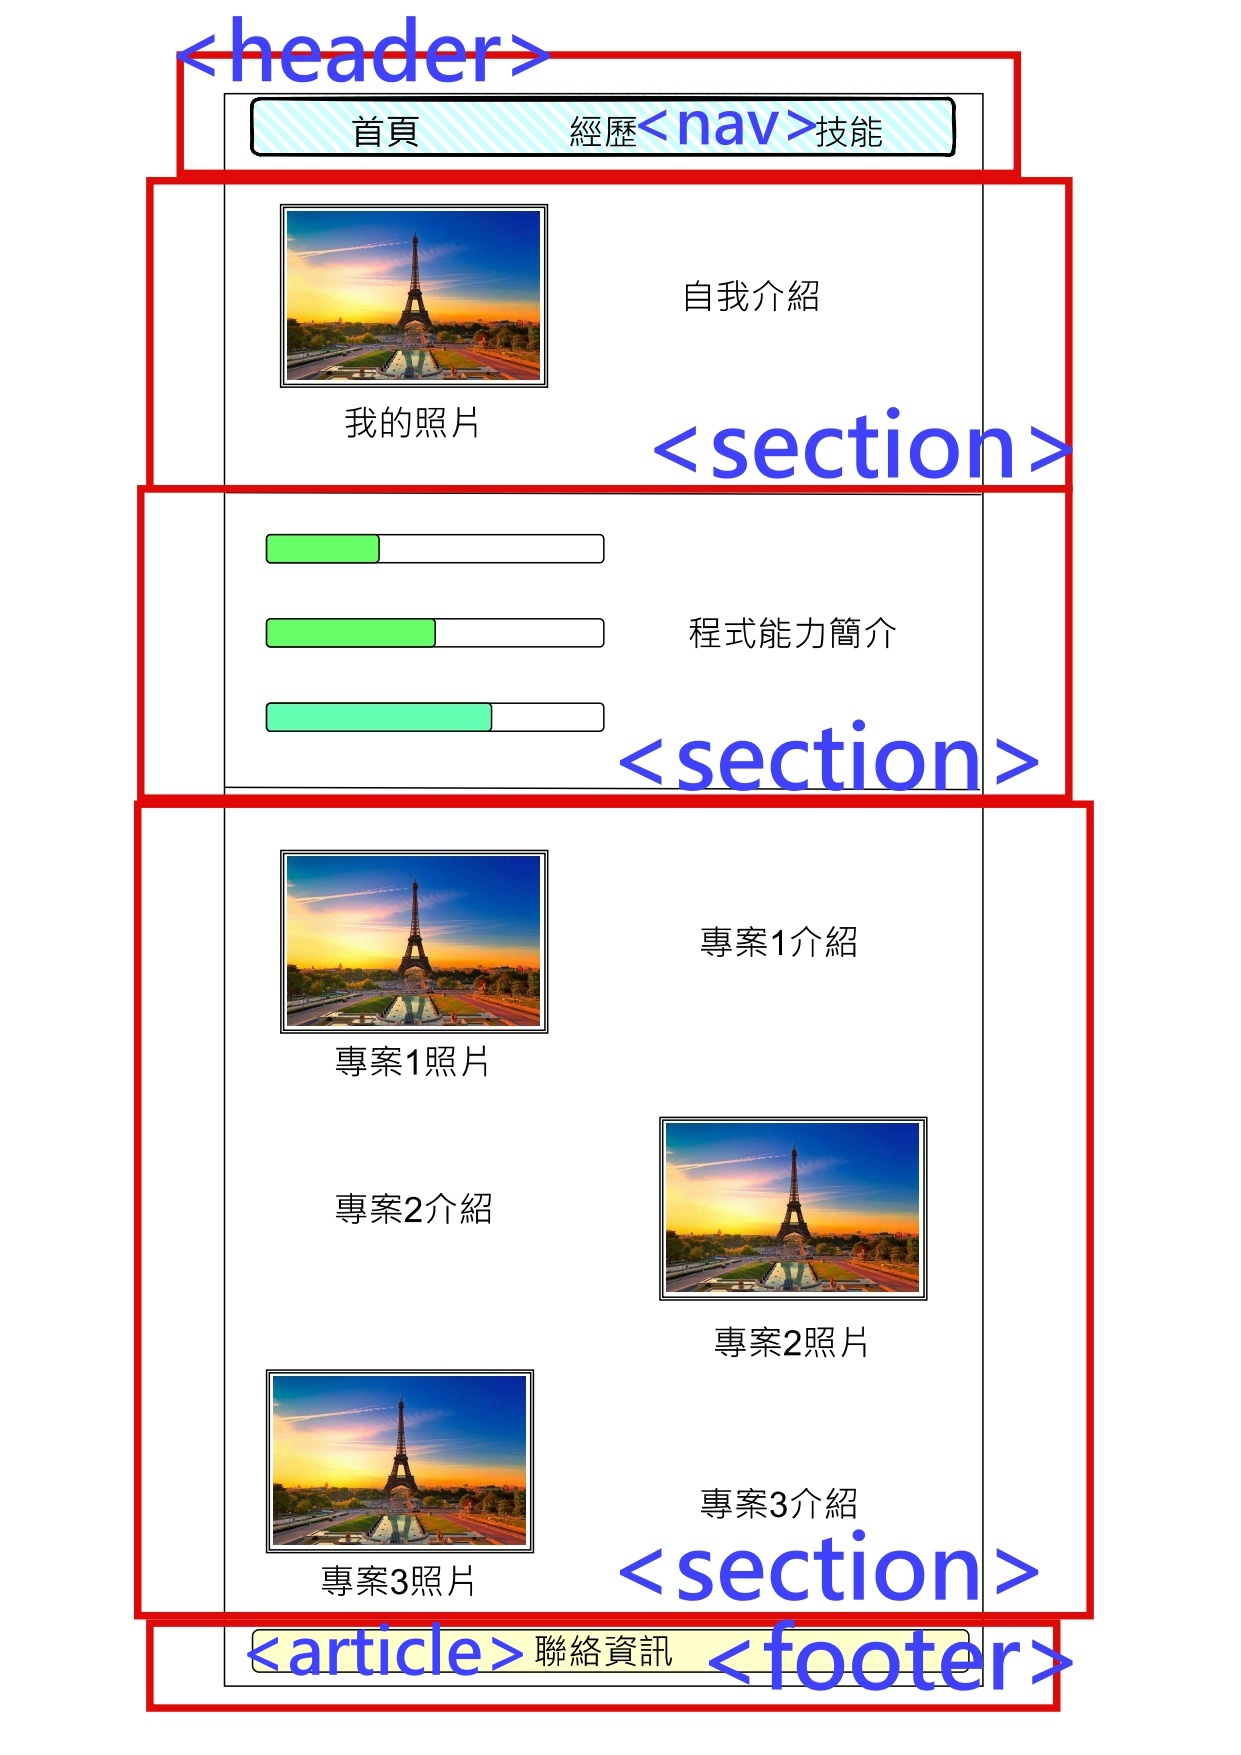
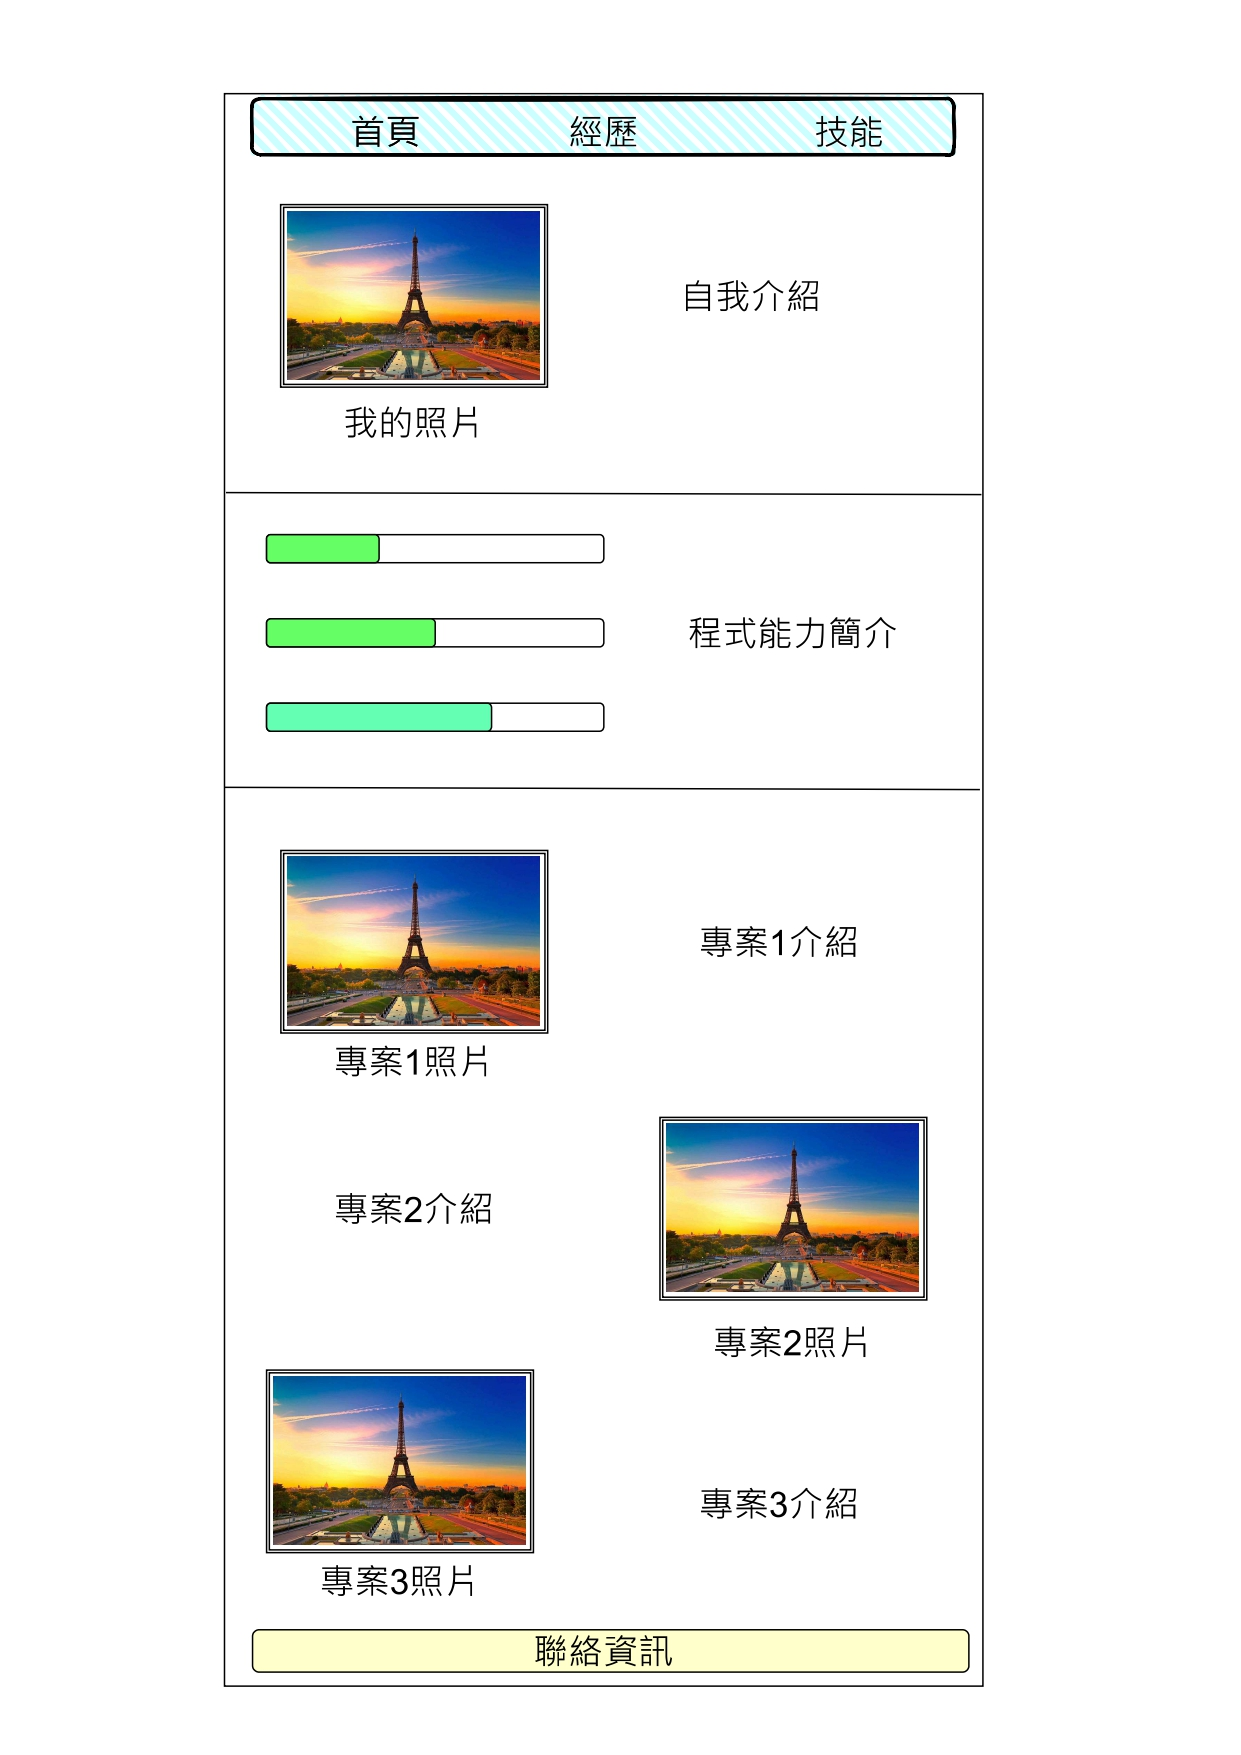
自我介紹

Changed region(s): [[0.0919, 0.0, 0.888, 0.9846]]

diff --git a/001.html b/001.html
@@ -10,15 +10,19 @@
 </head>
 <body>
     <header>
-        <h1>我的個人網站</h1>
+        <h1>我的個人網站</h1> 
+      </header>
       <nav>
         <a href="#">首頁</a>
         <a href="#">技能</a>
         <a href="#">經歷</a>
         <a href="#footer">聯絡資訊</a>
       </nav>
-    </header>
+   
       <section> <!-- 自我介紹 -->
+        <h1>
+          自我介紹：<br>大家好，我是吳柏翰，來自台中市。我喜歡爬山，每次爬山都讓我沉浸在山上的新鮮空氣和美景中，感覺像是一次又一次快樂的旅行。現在的目標是學好 HTML 和 CSS。雖然大二時學習得不夠用心，但我很快就意識到它們的實用性。現在我在教官室打工，我發現能透過精美的靜態網頁，像新生傳遞重要的資訊。未來我想成為 HTML 的大師！
+        </h1>
 
       </section>
       <section> <!--  程式能力簡介 -->

diff --git a/layout.css b/layout.css
@@ -1,0 +1,22 @@
+*{
+    box-sizing: border-box;
+}
+header{
+    background-color: lightgreen;
+    color:white;
+    text-align: center;
+    margin:0px;
+    padding:20px;
+}
+nav{
+    background-color: #e5cad4;
+    text-align: center;
+}
+nav a{
+    padding:14px 16px;
+    display:inline-block
+}
+nav a:hover{
+    background-color: #cda8b8;
+    color:white;
+}
